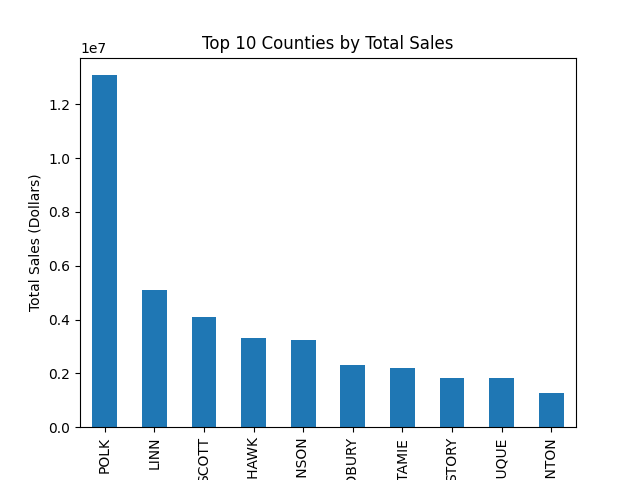
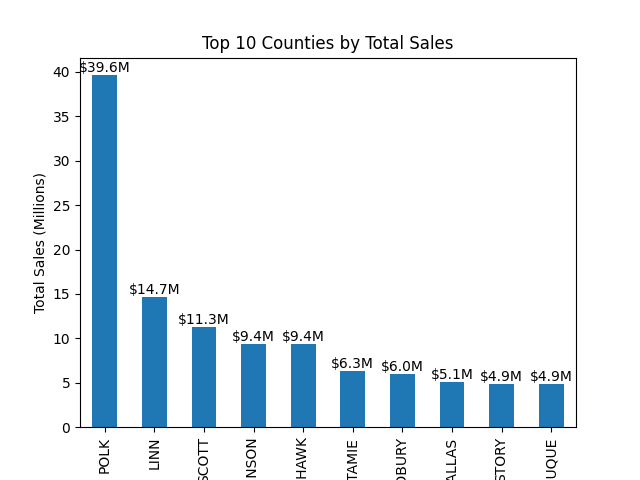
Modified a litte

diff --git a/Alc_set.py b/Alc_set.py
@@ -6,11 +6,10 @@ cols = [
     "Sale (Dollars)"
 ]
 
-df = pd.read_csv(
-    r"c:\Users\flowe\Desktop\Projects\Iowa Liquor Sales\Iowa_Liquor_Sales_20260102.csv",
+df = pd.read_excel(
+    r"C:\Users\flowe\Desktop\Projects\Iowa Liquor Sales\Iowa_Liquor_Sales_20260109.xlsx",
     usecols=cols,
     parse_dates=["Date"],
-    nrows=500_000
 )
 
 # Convert Sale (Dollars) to numeric
@@ -33,8 +32,25 @@ monthly_sales = (
 
 import matplotlib.pyplot as plt
 
-sales_by_county.plot(kind="bar", title="Top 10 Counties by Total Sales")
-plt.ylabel("Total Sales (Dollars)")
+file_path = r"C:\Users\flowe\Desktop\Projects\Iowa Liquor Sales\Iowa_Liquor_Sales_20260109.xlsx"
+df = pd.read_excel(file_path, sheet_name="Iowa_Liquor_Sales_20260109")
+
+# Keep only the columns we need and clean them
+df = df[["Date", "County", "Sale (Dollars)"]].copy()
+df["Date"] = pd.to_datetime(df["Date"], errors="coerce")
+df["Sale (Dollars)"] = pd.to_numeric(df["Sale (Dollars)"], errors="coerce")
+df = df.dropna(subset=["Date", "County", "Sale (Dollars)"])
+
+# Top 10 counties by total sales
+sales_by_county = df.groupby("County")["Sale (Dollars)"].sum().nlargest(10)
+sales_by_county_m = sales_by_county / 1_000_000
+
+# Monthly total sales across the whole file
+monthly_sales = df.set_index("Date")["Sale (Dollars)"].resample("MS").sum()
+
+ax = sales_by_county_m.plot(kind="bar", title="Top 10 Counties by Total Sales")
+ax.bar_label(ax.containers[0], fmt='$%.1fM')
+plt.ylabel("Total Sales (Millions)")
 plt.savefig("top_counties_sales.png")
 plt.show()
 
